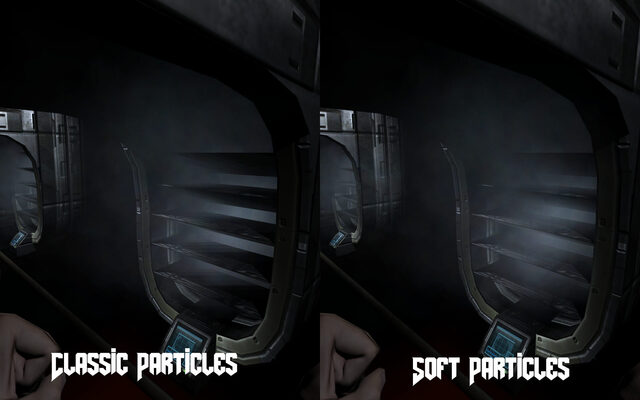
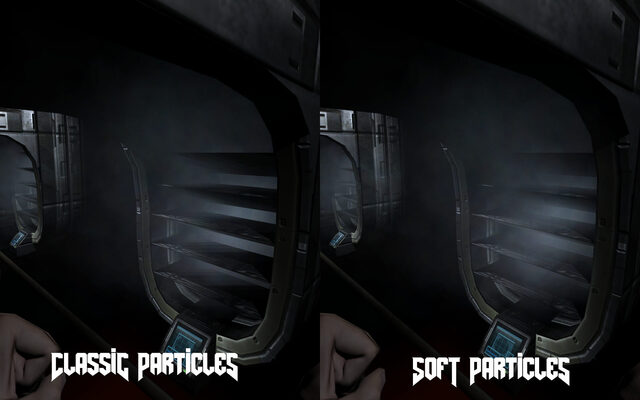
1.5.4 release newspost

Changed region(s): [[0.1562, 0.87, 0.375, 0.96], [0.6875, 0.87, 0.9062, 0.96]]

diff --git a/index.html b/index.html
@@ -78,13 +78,58 @@ Compared to the original version of Doom3, dhewm3 has many bugfixes, supports EA
 <p>It only supports <strong>old Mods</strong> if they <em>either</em> don’t require their own game DLL <em>or</em> have been ported to dhewm3 - see the <a href="./mods.html">Mods page</a> for more information.</p>
 <p>Note that while the Doom3 source code has been released under GPL, you still need to legally own the game and provide dhewm3 the game data to play. See the <a href="#how-to-install">How to Install</a> section for more information.</p>
 <h1 id="news">News</h1>
+<h4 id="dhewm3-1.5.4">2024-08-03: <em>dhewm3 1.5.4</em></h4>
+<p>Twenty years ago to the day, Doom 3 was released!</p>
+<p><a href="./pinky-cake.jpg" title="Happy 20th Birthday, Doom3!"><img src="./small-pinky-cake.jpg" style="max-width:50%;margin-left:auto;margin-right:auto;display:block"></a></p>
+<p>To celebrate this, dhewm3 1.5.4 is released today!</p>
+<p>The biggest new features since 1.5.3 are a new mod-independent <strong>Settings Menu</strong> that uses <a href="https://github.com/ocornut/imgui">Dear ImGui</a> and <strong>Soft Particles</strong> (that don’t “cut” into geometry but fade smoothly).<br />
+The <em>Settings Menu</em> can be opened by pressing the <code>F10</code> key (unless some other action is already bound to that key) or by entering <code>dhewm3Settings</code> in the console and lets you configure many basic and advanced options, can be navigated with gamepad, keyboard or mouse and has an improved keybindings menu (compared to the original options menu).</p>
+<p><a href="./dhewm3-1.5.4.jpg" title="dhewm3 1.5.4"><img src="./small-dhewm3-1.5.4.jpg" style="max-width:50%;margin-left:auto;margin-right:auto;display:block"></a></p>
+<p>You can <strong><a href="https://github.com/dhewm/dhewm3/releases/tag/1.5.4">download it at Github</a></strong> (incl. builds for Windows and 64bit Linux).</p>
+<p><a href="./dhewm3-soft-particles.jpg" title="Classic Particles vs Soft Particles"><img src="./small-dhewm3-soft-particles.jpg" style="max-width:50%;margin-left:auto;margin-right:auto;display:block"></a></p>
+<p><strong>Changes since 1.5.3:</strong></p>
+<ul>
+<li>dhewm3-mods now contains game DLLs/libs for several new mods:
+<ul>
+<li><a href="https://www.moddb.com/games/doom-iii/addons/blood-mod-v15-for-dhewm3-32-bit">Blood Mod v1.5</a></li>
+<li><a href="https://www.moddb.com/mods/perfected-doom-3-version-500/downloads">Perfected Doom3 (ROE) v7</a></li>
+<li><a href="https://www.moddb.com/mods/sikkmod/downloads/sikkmod-v12">Sikkmod v1.2</a> and <a href="https://www.moddb.com/mods/sikkmod/downloads/sikkmod-v11-roe">Sikkmod RoE v1.1</a></li>
+<li>See the <a href="./mods.html">Mods section</a> for more details, and the <a href="https://github.com/dhewm/dhewm3-sdk/">dhewm3-sdk repository</a> for source code</li>
+</ul></li>
+<li>A brand new <strong>settings menu</strong> that uses <a href="https://github.com/ocornut/imgui">Dear ImGui</a>.<br />
+Can be opened with <code>F10</code> (unless that key is bound already) or by entering <code>dhewm3Settings</code> in the console. It has lots of settings that the original options menu doesn’t have and can be easily navigated with gamepad or keyboard (or the mouse, of course). It can also be opened while in the game, which then is paused (if Single Player) but still visible, so the effect of most graphics settings can be seen immediately. Needs SDL2 and C++11.</li>
+<li><strong>“Soft” Particles</strong> (that don’t “cut” into geometry but fade smoothly), based on code from <a href="https://www.thedarkmod.com/main/">The Dark Mod</a> 2.04. Can be enabled/disabled with <code>r_useSoftParticles</code>, is applied automatically for all appropriate particles (view-aligned, using additive or alpha blending and not too small)</li>
+<li><code>r_enableDepthCapture</code>: Enable capturing depth buffer to texture, needed for the soft particles. Can be used in custom materials by using the <code>"_currentDepth"</code> texture</li>
+<li>Replaced dependency on (external) zlib with integrated <a href="https://github.com/richgel999/miniz">miniz</a></li>
+<li><strong>HighDPI</strong>/Retina support</li>
+<li>Allow inverted mouse look (horizontally, vertically or both) with <code>m_invertLook</code></li>
+<li>CVar to allow always run in single player (still drains stamina though!): <code>in_allowAlwaysRunInSP</code></li>
+<li>VSync can be enabled/disabled on the fly, without restarting the renderer (still with <code>r_swapInterval</code> or in the menu, of course; needs SDL2)</li>
+<li>Allow enabling/disabling <a href="https://en.wikipedia.org/wiki/Head-related_transfer_function">HRTF</a> with <code>s_alHRTF</code></li>
+<li><code>s_alOutputLimiter</code>: Configure OpenAL’s output-limiter which temporarily reduces the overall volume when too many too loud sounds play at once, to avoid issues like clipping</li>
+<li><code>s_scaleDownAndClamp</code>: Clamp and reduce volume of all sounds to prevent clipping or temporary downscaling by OpenAL’s output limiter</li>
+<li>If <code>r_windowResizable</code> is set, the dhewm3 window (when in windowed mode..) can be freely resized. Needs SDL2; with 2.0.5 and newer it’s applied immediately, otherwise when creating the window.</li>
+<li>If switching between fullscreen and windowed mode or similar changes causes issues (like <a href="https://github.com/dhewm/dhewm3/issues/587#issuecomment-2205807989">here</a>), you can set <code>r_vidRestartAlwaysFull 1</code>, so (again) a full <code>vid_restart</code> is done, instead of the partial one which <em>usually</em> suffices for just changing the resolution or fullscreen state. If you run into that issue (probably a driver bug), you’ll probably also want to set <code>r_windowResizable 0</code>, because resizing the window that way also triggered the bug, and in that case no <code>vid_restart</code> is done at all</li>
+<li>Fixed screenshots when using native Wayland (<code>SDL_VIDEODRIVER=wayland</code>)</li>
+<li>If you enter the <code>map</code> command in the console, without any arguments, the current map name is printed</li>
+<li>Support OpenGL debug contexts and messages (<code>GL_ARB_debug_output</code>). Can be enabled with <code>r_glDebugContext 1</code>. Changing that CVar requires a <code>vid_restart</code> (or set it as startup argument)</li>
+<li>In the Win32 release, updated the bundled SDL2 to 2.30.5 and cURL to 8.9.0</li>
+<li>In the dhewm3-mods archive for Linux, the librecoop libs have been rebuild (fix <a href="https://github.com/dhewm/dhewm3/issues/589">#589</a>)</li>
+</ul>
+<p>Thank you very much to everyone who tested this, especially <span class="citation" data-cites="j4reporting">@j4reporting</span>, <span class="citation" data-cites="ALord7">@ALord7</span>, <span class="citation" data-cites="Eonfge">@Eonfge</span> and <span class="citation" data-cites="tomkidd">@tomkidd</span> (who also maintains MacSourcePorts)!</p>
+<p>Special thanks to <strong>Valkyries733</strong> from the <em>idtech 4</em> Discord server for creating the awesome picture with the birthday cake!</p>
 <h4 id="dhewm3-1.5.4-release-candidate-3">2024-07-29: <em>dhewm3 1.5.4 Release Candidate 3</em></h4>
 <p>The third Release Candidate for the upcoming 1.5.4 release is available!</p>
+<details>
+<p><summary>Click to see the rest of this (outdated) newspost</summary></p>
 <p>It fixes an issue with the Soft Particles first noticed in Dentonmod, but the way I had to fix it was kinda intrusive so <strong>testing</strong> would be <strong>very welcome</strong>.</p>
 <p>You can <strong><a href="https://github.com/dhewm/dhewm3/releases/tag/1.5.4_RC3">download it at Github</a></strong> (incl. builds for Windows and 64bit Linux).</p>
 <p><em>(Note: The mod DLLs haven’t changed, so if you want to test the supported mods just use the dhewm3-mods archive from <a href="https://github.com/dhewm/dhewm3/releases/tag/1.5.4_RC2">1.5.4 RC2</a>)</em></p>
+</details>
 <h4 id="dhewm3-1.5.4-release-candidate-2">2024-07-28: <em>dhewm3 1.5.4 Release Candidate 2</em></h4>
 <p>The second Release Candidate for the upcoming 1.5.4 release is available!</p>
+<details>
+<p><summary>Click to see the rest of this (outdated) newspost</summary></p>
 <p>You can <strong><a href="https://github.com/dhewm/dhewm3/releases/tag/1.5.4_RC2">download it at Github</a></strong> (incl. builds for Windows and 64bit Linux).</p>
 <p>It only has some minor changes:</p>
 <ul>
@@ -94,10 +139,13 @@ Compared to the original version of Doom3, dhewm3 has many bugfixes, supports EA
 <li>Applied fixes to Perfected Doom 3 and Sikkmod so the crosshair is round in widescreen resolutions</li>
 </ul>
 <p><em>(see the newspost just below this one for changes since 1.5.3)</em></p>
+</details>
 <h4 id="dhewm3-1.5.4-release-candidate-1">2024-07-27: <em>dhewm3 1.5.4 Release Candidate 1</em></h4>
-<p><a href="./dhewm3-1.5.4rc1.jpg" title="dhewm3 1.5.4 RC1"><img src="./small-dhewm3-1.5.4rc1.jpg" style="max-width:50%;margin-left:auto;margin-right:auto;display:block"></a></p>
 <p>A first Release Candidate of the upcoming 1.5.4 release is available!</p>
-<p>The biggest new features since 1.5.2 are a new mod-independent <strong>Settings Menu</strong> that uses <a href="https://github.com/ocornut/imgui">Dear ImGui</a> and <strong>Soft Particles</strong> (that don’t “cut” into geometry but fade smoothly).<br />
+<details>
+<p><summary>Click to see the rest of this (outdated) newspost</summary></p>
+<p><a href="./dhewm3-1.5.4rc1.jpg" title="dhewm3 1.5.4 RC1"><img src="./small-dhewm3-1.5.4rc1.jpg" style="max-width:50%;margin-left:auto;margin-right:auto;display:block"></a></p>
+<p>The biggest new features since 1.5.3 are a new mod-independent <strong>Settings Menu</strong> that uses <a href="https://github.com/ocornut/imgui">Dear ImGui</a> and <strong>Soft Particles</strong> (that don’t “cut” into geometry but fade smoothly).<br />
 The <em>Settings Menu</em> can be opened by pressing the <code>F10</code> key (unless some other action is already bound to that key) or by entering <code>dhewm3Settings</code> in the console and lets you configure many basic and advanced options, can be navigated with gamepad, keyboard or mouse and has an improved keybindings menu (compared to the original options menu).</p>
 <p>You can <strong><a href="https://github.com/dhewm/dhewm3/releases/tag/1.5.4_RC1">download it at Github</a></strong> (incl. builds for Windows and 64bit Linux).</p>
 <p><a href="./dhewm3-soft-particles.jpg" title="Classic Particles vs Soft Particles"><img src="./small-dhewm3-soft-particles.jpg" style="max-width:50%;margin-left:auto;margin-right:auto;display:block"></a></p>
@@ -130,6 +178,7 @@ Can be opened with <code>F10</code> (unless that key is bound already) or by ent
 <li>In the Win32 release, updated the bundled SDL2 to 2.30.5 and cURL to 8.9.0</li>
 <li>In the dhewm3-mods archive for Linux, the librecoop libs have been rebuild (fix <a href="https://github.com/dhewm/dhewm3/issues/589">#589</a>)</li>
 </ul>
+</details>
 <h4 id="dhewm3-1.5.3">2024-03-29: <em>dhewm3 1.5.3</em></h4>
 <p><a href="./dhewm3-1.5.3.jpg" title="dhewm3 1.5.3"><img src="./small-dhewm3-1.5.3.jpg" style="max-width:50%;margin-left:auto;margin-right:auto;display:block"></a></p>
 <p>Just in time for the Easter weekend, dhewm3 1.5.3 is done!</p>

diff --git a/mods.html b/mods.html
@@ -67,7 +67,7 @@ General information about idTech4 (Doom3, Quake4, Prey, ET:QW, …) modding can 
 <li>Just extract that zip to your Doom3/dhewm3 installation</li>
 </ul></li>
 <li>You can find the source code at <a href="https://github.com/dhewm/dhewm3-sdk/tree/bloodmod">Github</a></li>
-<li>A <strong>.dll</strong> that works with the official dhewm3 <strong>Windows</strong> executable and a <strong>.so</strong> for Linux (on amd64 aka x86_64) is part of <code>dhewm3-mods_*_win32.zip</code> resp. <code>dhewm3-mods_*_Linux_amd64.tar.gz</code> on the <a href="https://github.com/dhewm/dhewm3/releases/tag/1.5.4_RC2">Download Page</a>
+<li>A <strong>.dll</strong> that works with the official dhewm3 <strong>Windows</strong> executable and a <strong>.so</strong> for Linux (on amd64 aka x86_64) is part of <code>dhewm3-mods_*_win32.zip</code> resp. <code>dhewm3-mods_*_Linux_amd64.tar.gz</code> on the <a href="https://github.com/dhewm/dhewm3/releases/latest">Download Page</a>
 <ul>
 <li>for other platforms you’ll have to compile it yourself</li>
 </ul></li>
@@ -160,7 +160,7 @@ If you’re a fan of classic action games such as Contra &amp; Metal Slug; then 
 <li>Especially if you’re not on Windows, make sure to rename the contained <code>Perfected/</code> directory to <code>perfected/</code>, and <code>Perfected_ROE/</code> to <code>perfected_roe/</code>, because Doom3 doesn’t like uppercase characters in paths (while it works on Windows, it doesn’t on Linux, FreeBSD and possibly OSX!)</li>
 </ul></li>
 <li>You can find the source code at <a href="https://github.com/dhewm/dhewm3-sdk/tree/perfected">Github</a></li>
-<li><strong>.dll</strong>s that work with the official dhewm3 <strong>Windows</strong> executable and <strong>.so</strong> files for Linux (on amd64 aka x86_64) are part of <code>dhewm3-mods_*_win32.zip</code> resp. <code>dhewm3-mods_*_Linux_amd64.tar.gz</code> on the <a href="https://github.com/dhewm/dhewm3/releases/tag/1.5.4_RC2">Download Page</a>
+<li><strong>.dll</strong>s that work with the official dhewm3 <strong>Windows</strong> executable and <strong>.so</strong> files for Linux (on amd64 aka x86_64) are part of <code>dhewm3-mods_*_win32.zip</code> resp. <code>dhewm3-mods_*_Linux_amd64.tar.gz</code> on the <a href="https://github.com/dhewm/dhewm3/releases/latest">Download Page</a>
 <ul>
 <li>for other platforms you’ll have to compile it yourself</li>
 </ul></li>
@@ -195,7 +195,7 @@ or, for the Resurrection of Evil Addon (with Perfected ROE):<br />
 <li>No, there is no Sikkmod v1.2 for Resurrection of Evil (RoE)</li>
 </ul></li>
 <li><p>You can find the source code at <a href="https://github.com/dhewm/dhewm3-sdk/tree/sikkmod">Github</a></p></li>
-<li><p><strong>.dll</strong>s that work with the official dhewm3 <strong>Windows</strong> executable and <strong>.so</strong> files for Linux (on amd64 aka x86_64) are part of <code>dhewm3-mods_*_win32.zip</code> resp. <code>dhewm3-mods_*_Linux_amd64.tar.gz</code> on the <a href="https://github.com/dhewm/dhewm3/releases/tag/1.5.4_RC2">Download Page</a></p>
+<li><p><strong>.dll</strong>s that work with the official dhewm3 <strong>Windows</strong> executable and <strong>.so</strong> files for Linux (on amd64 aka x86_64) are part of <code>dhewm3-mods_*_win32.zip</code> resp. <code>dhewm3-mods_*_Linux_amd64.tar.gz</code> on the <a href="https://github.com/dhewm/dhewm3/releases/latest">Download Page</a></p>
 <ul>
 <li>for other platforms you’ll have to compile it yourself</li>
 </ul></li>

diff --git a/index.md b/index.md
@@ -20,9 +20,81 @@ more information.
 
 # News
 
+#### 2024-08-03: _dhewm3 1.5.4_
+
+Twenty years ago to the day, Doom 3 was released! 
+
+<a href="./pinky-cake.jpg" title="Happy 20th Birthday, Doom3!"><img src="./small-pinky-cake.jpg" style="max-width:50%;margin-left:auto;margin-right:auto;display:block"></a>
+
+To celebrate this, dhewm3 1.5.4 is released today!
+
+The biggest new features since 1.5.3 are a new mod-independent **Settings Menu** that uses
+[Dear ImGui](https://github.com/ocornut/imgui) and **Soft Particles** (that don't "cut" into geometry
+but fade smoothly).  
+The *Settings Menu* can be opened by pressing the `F10` key (unless some other action is already
+bound to that key) or by entering `dhewm3Settings` in the console and lets you configure many
+basic and advanced options, can be navigated with gamepad, keyboard or mouse and has an improved
+keybindings menu (compared to the original options menu).
+
+<a href="./dhewm3-1.5.4.jpg" title="dhewm3 1.5.4"><img src="./small-dhewm3-1.5.4.jpg" style="max-width:50%;margin-left:auto;margin-right:auto;display:block"></a>
+
+You can **[download it at Github](https://github.com/dhewm/dhewm3/releases/tag/1.5.4)**
+(incl. builds for Windows and 64bit Linux).
+
+<a href="./dhewm3-soft-particles.jpg" title="Classic Particles vs Soft Particles"><img src="./small-dhewm3-soft-particles.jpg" style="max-width:50%;margin-left:auto;margin-right:auto;display:block"></a>
+
+**Changes since 1.5.3:**
+
+* dhewm3-mods now contains game DLLs/libs for several new mods:
+    - [Blood Mod v1.5](https://www.moddb.com/games/doom-iii/addons/blood-mod-v15-for-dhewm3-32-bit)
+    - [Perfected Doom3 (ROE) v7](https://www.moddb.com/mods/perfected-doom-3-version-500/downloads)
+    - [Sikkmod v1.2](https://www.moddb.com/mods/sikkmod/downloads/sikkmod-v12) and [Sikkmod RoE v1.1](https://www.moddb.com/mods/sikkmod/downloads/sikkmod-v11-roe)
+    - See the [Mods section](./mods.html) for more details, and the [dhewm3-sdk repository](https://github.com/dhewm/dhewm3-sdk/)
+      for source code
+* A brand new **settings menu** that uses [Dear ImGui](https://github.com/ocornut/imgui).  
+  Can be opened with `F10` (unless that key is bound already) or by entering `dhewm3Settings`
+  in the console. It has lots of settings that the original options menu doesn't have and
+  can be easily navigated with gamepad or keyboard (or the mouse, of course).
+  It can also be opened while in the game, which then is paused (if Single Player) but still visible,
+  so the effect of most graphics settings can be seen immediately.
+  Needs SDL2 and C++11.
+* **"Soft" Particles** (that don't "cut" into geometry but fade smoothly), based on code from 
+  [The Dark Mod](https://www.thedarkmod.com/main/) 2.04. Can be enabled/disabled with `r_useSoftParticles`,
+  is applied automatically for all appropriate particles (view-aligned, using additive or alpha
+  blending and not too small)
+* `r_enableDepthCapture`: Enable capturing depth buffer to texture, needed for the soft particles.
+  Can be used in custom materials by using the `"_currentDepth"` texture
+* Replaced dependency on (external) zlib with integrated [miniz](https://github.com/richgel999/miniz)
+* **HighDPI**/Retina support
+* Allow inverted mouse look (horizontally, vertically or both) with `m_invertLook`
+* CVar to allow always run in single player (still drains stamina though!): `in_allowAlwaysRunInSP`
+* VSync can be enabled/disabled on the fly, without restarting the renderer (still with `r_swapInterval`
+  or in the menu, of course; needs SDL2)
+* Allow enabling/disabling [HRTF](https://en.wikipedia.org/wiki/Head-related_transfer_function) with `s_alHRTF`
+* `s_alOutputLimiter`: Configure OpenAL's output-limiter which temporarily reduces the overall
+  volume when too many too loud sounds play at once, to avoid issues like clipping
+* `s_scaleDownAndClamp`: Clamp and reduce volume of all sounds to prevent clipping or temporary
+  downscaling by OpenAL's output limiter
+* If `r_windowResizable` is set, the dhewm3 window (when in windowed mode..) can be freely resized.
+  Needs SDL2; with 2.0.5 and newer it's applied immediately, otherwise when creating the window.
+* If switching between fullscreen and windowed mode or similar changes causes issues (like [here](https://github.com/dhewm/dhewm3/issues/587#issuecomment-2205807989)), you can set `r_vidRestartAlwaysFull 1`, so (again) a full `vid_restart` is done, instead of the partial one which *usually* suffices for just changing the resolution or fullscreen state. If you run into that issue (probably a driver bug), you'll probably also want to set `r_windowResizable 0`, because resizing the window that way also triggered the bug, and in that case no `vid_restart` is done at all
+* Fixed screenshots when using native Wayland (`SDL_VIDEODRIVER=wayland`)
+* If you enter the `map` command in the console, without any arguments, the current map name is printed
+* Support OpenGL debug contexts and messages (`GL_ARB_debug_output`). Can be enabled with `r_glDebugContext 1`.
+   Changing that CVar requires a `vid_restart` (or set it as startup argument)
+* In the Win32 release, updated the bundled SDL2 to 2.30.5 and cURL to 8.9.0
+* In the dhewm3-mods archive for Linux, the librecoop libs have been rebuild (fix [#589](https://github.com/dhewm/dhewm3/issues/589))
+
+Thank you very much to everyone who tested this, especially @j4reporting, @ALord7, @Eonfge and @tomkidd (who also maintains MacSourcePorts)!
+
+Special thanks to **Valkyries733** from the *idtech 4* Discord server for creating the awesome
+picture with the birthday cake!
+
 #### 2024-07-29: _dhewm3 1.5.4 Release Candidate 3_
 
 The third Release Candidate for the upcoming 1.5.4 release is available!
+
+<details><summary>Click to see the rest of this (outdated) newspost</summary>
 
 It fixes an issue with the Soft Particles first noticed in Dentonmod, but the way I had to fix it was
 kinda intrusive so **testing** would be **very welcome**.
@@ -33,9 +105,13 @@ You can **[download it at Github](https://github.com/dhewm/dhewm3/releases/tag/1
 *(Note: The mod DLLs haven't changed, so if you want to test the supported mods just use the
 dhewm3-mods archive from [1.5.4 RC2](https://github.com/dhewm/dhewm3/releases/tag/1.5.4_RC2))*
 
+</details>
+
 #### 2024-07-28: _dhewm3 1.5.4 Release Candidate 2_
 
 The second Release Candidate for the upcoming 1.5.4 release is available!
+
+<details><summary>Click to see the rest of this (outdated) newspost</summary>
 
 You can **[download it at Github](https://github.com/dhewm/dhewm3/releases/tag/1.5.4_RC2)**
 (incl. builds for Windows and 64bit Linux).
@@ -49,13 +125,17 @@ It only has some minor changes:
 
 *(see the newspost just below this one for changes since 1.5.3)*
 
-#### 2024-07-27: _dhewm3 1.5.4 Release Candidate 1_
+</details>
 
-<a href="./dhewm3-1.5.4rc1.jpg" title="dhewm3 1.5.4 RC1"><img src="./small-dhewm3-1.5.4rc1.jpg" style="max-width:50%;margin-left:auto;margin-right:auto;display:block"></a>
+#### 2024-07-27: _dhewm3 1.5.4 Release Candidate 1_
 
 A first Release Candidate of the upcoming 1.5.4 release is available!
 
-The biggest new features since 1.5.2 are a new mod-independent **Settings Menu** that uses
+<details><summary>Click to see the rest of this (outdated) newspost</summary>
+
+<a href="./dhewm3-1.5.4rc1.jpg" title="dhewm3 1.5.4 RC1"><img src="./small-dhewm3-1.5.4rc1.jpg" style="max-width:50%;margin-left:auto;margin-right:auto;display:block"></a>
+
+The biggest new features since 1.5.3 are a new mod-independent **Settings Menu** that uses
 [Dear ImGui](https://github.com/ocornut/imgui) and **Soft Particles** (that don't "cut" into geometry
 but fade smoothly).  
 The *Settings Menu* can be opened by pressing the `F10` key (unless some other action is already
@@ -109,6 +189,8 @@ You can **[download it at Github](https://github.com/dhewm/dhewm3/releases/tag/1
    Changing that CVar requires a `vid_restart` (or set it as startup argument)
 * In the Win32 release, updated the bundled SDL2 to 2.30.5 and cURL to 8.9.0
 * In the dhewm3-mods archive for Linux, the librecoop libs have been rebuild (fix [#589](https://github.com/dhewm/dhewm3/issues/589))
+
+</details>
 
 #### 2024-03-29: _dhewm3 1.5.3_
 

diff --git a/mods.md b/mods.md
@@ -26,7 +26,7 @@ A big THANK YOU to *ALord7* for releasing the mod's source under GPL!
 * You can find the source code at [Github](https://github.com/dhewm/dhewm3-sdk/tree/bloodmod)
 * A **.dll** that works with the official dhewm3 **Windows** executable and a **.so** for Linux
   (on amd64 aka x86_64) is part of `dhewm3-mods_*_win32.zip` resp. `dhewm3-mods_*_Linux_amd64.tar.gz`
-  on the [Download Page](https://github.com/dhewm/dhewm3/releases/tag/1.5.4_RC2)
+  on the [Download Page](https://github.com/dhewm/dhewm3/releases/latest)
     - for other platforms you'll have to compile it yourself
 * Once the game data and bloodmod.dll/bloodmod.so/bloodmod.dylib are in place, you can start the mod with:
   `./dhewm3 +set fs_game bloodmod`
@@ -145,7 +145,7 @@ Thanks a lot to *VGames* for releasing the source under GPL!
 * You can find the source code at [Github](https://github.com/dhewm/dhewm3-sdk/tree/perfected)
 * **.dll**s that work with the official dhewm3 **Windows** executable and **.so** files for Linux
   (on amd64 aka x86_64) are part of `dhewm3-mods_*_win32.zip` resp. `dhewm3-mods_*_Linux_amd64.tar.gz`
-  on the [Download Page](https://github.com/dhewm/dhewm3/releases/tag/1.5.4_RC2)
+  on the [Download Page](https://github.com/dhewm/dhewm3/releases/latest)
     - for other platforms you'll have to compile it yourself
 * Once the game data and perfected.dll/perfected.so/perfected.dylib (or perfected_roe.dll/.so/.dylib for Sikkmod RoE)
   are in place, you can start the mod with:  
@@ -189,7 +189,7 @@ Thanks a lot to *Sikkpin* for [allowing to use the source under GPL](https://git
 * You can find the source code at [Github](https://github.com/dhewm/dhewm3-sdk/tree/sikkmod)
 * **.dll**s that work with the official dhewm3 **Windows** executable and **.so** files for Linux
   (on amd64 aka x86_64) are part of `dhewm3-mods_*_win32.zip` resp. `dhewm3-mods_*_Linux_amd64.tar.gz`
-  on the [Download Page](https://github.com/dhewm/dhewm3/releases/tag/1.5.4_RC2)
+  on the [Download Page](https://github.com/dhewm/dhewm3/releases/latest)
     - for other platforms you'll have to compile it yourself
 * Once the game data and sikkmod.dll/sikkmod.so/sikkmod.dylib (or sikkmodd3xp.dll etc for Sikkmod RoE),
   you can start the mod with:  
